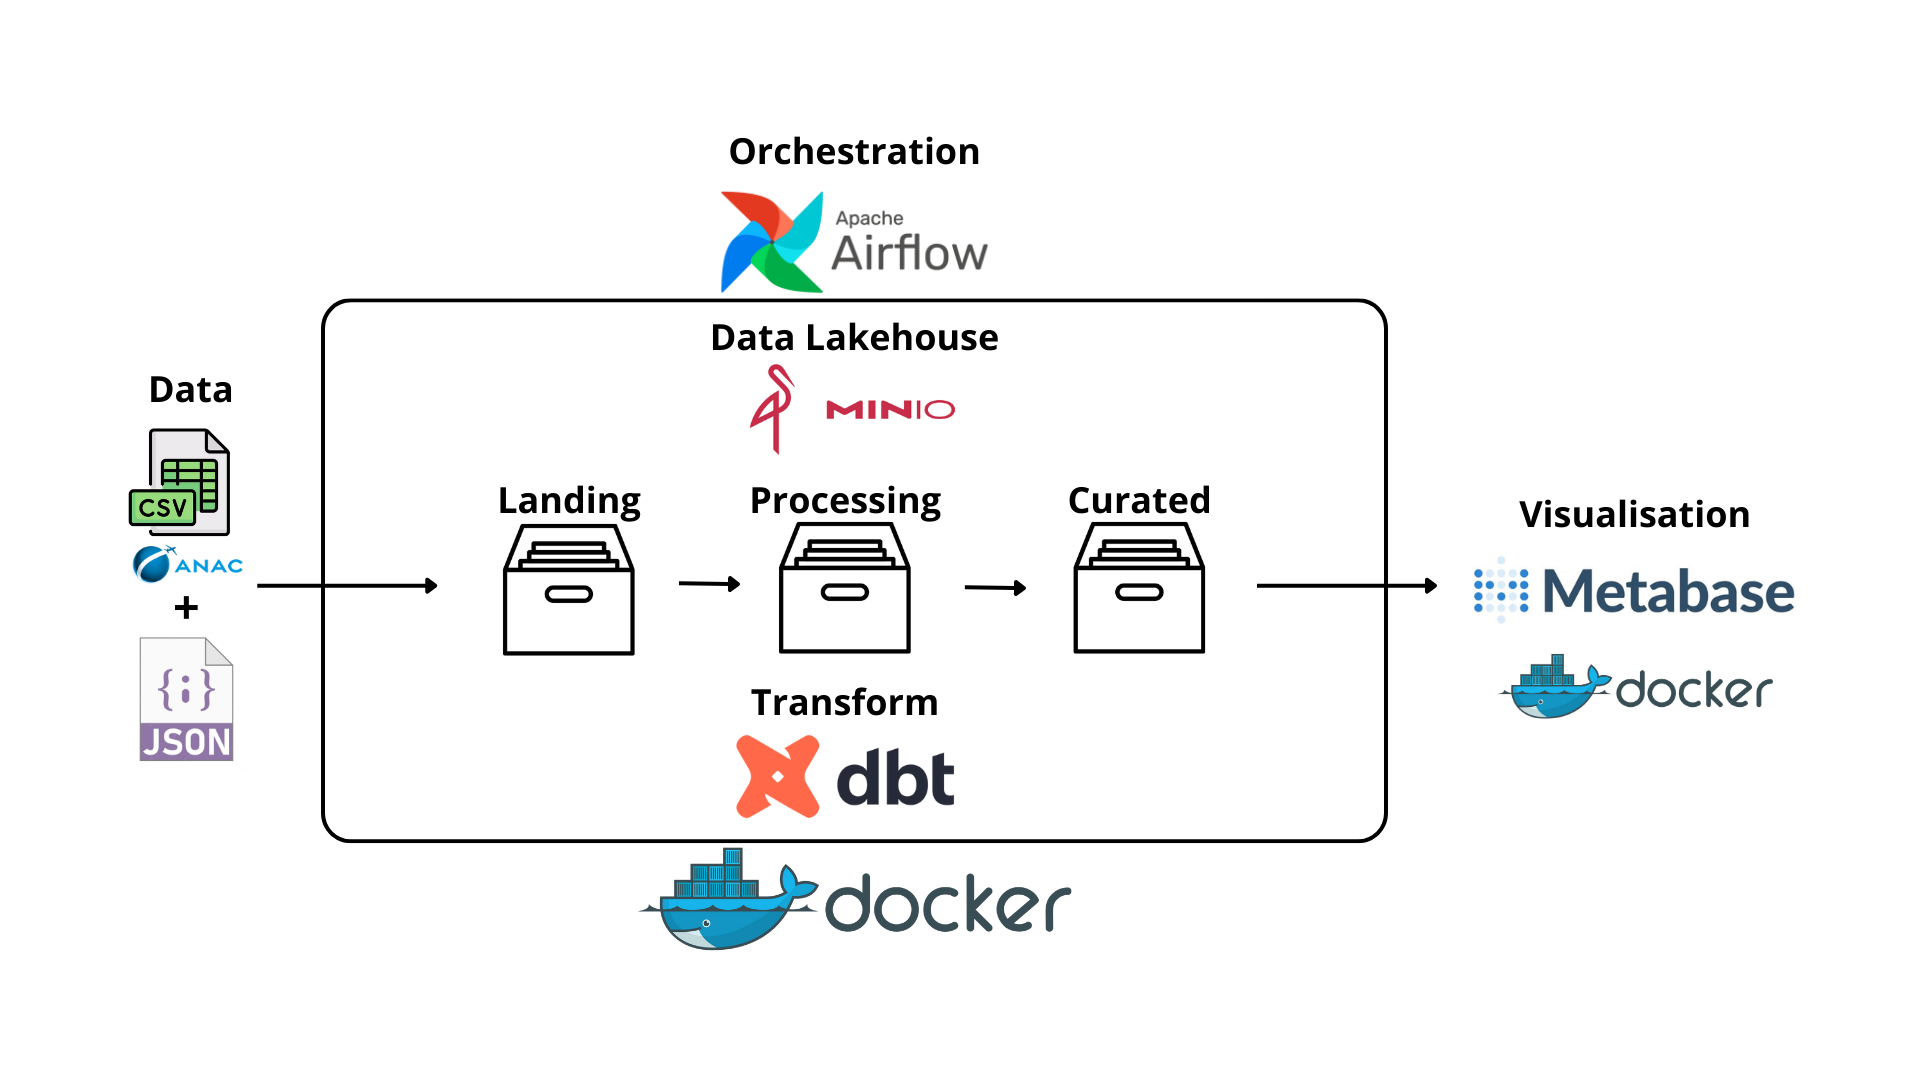
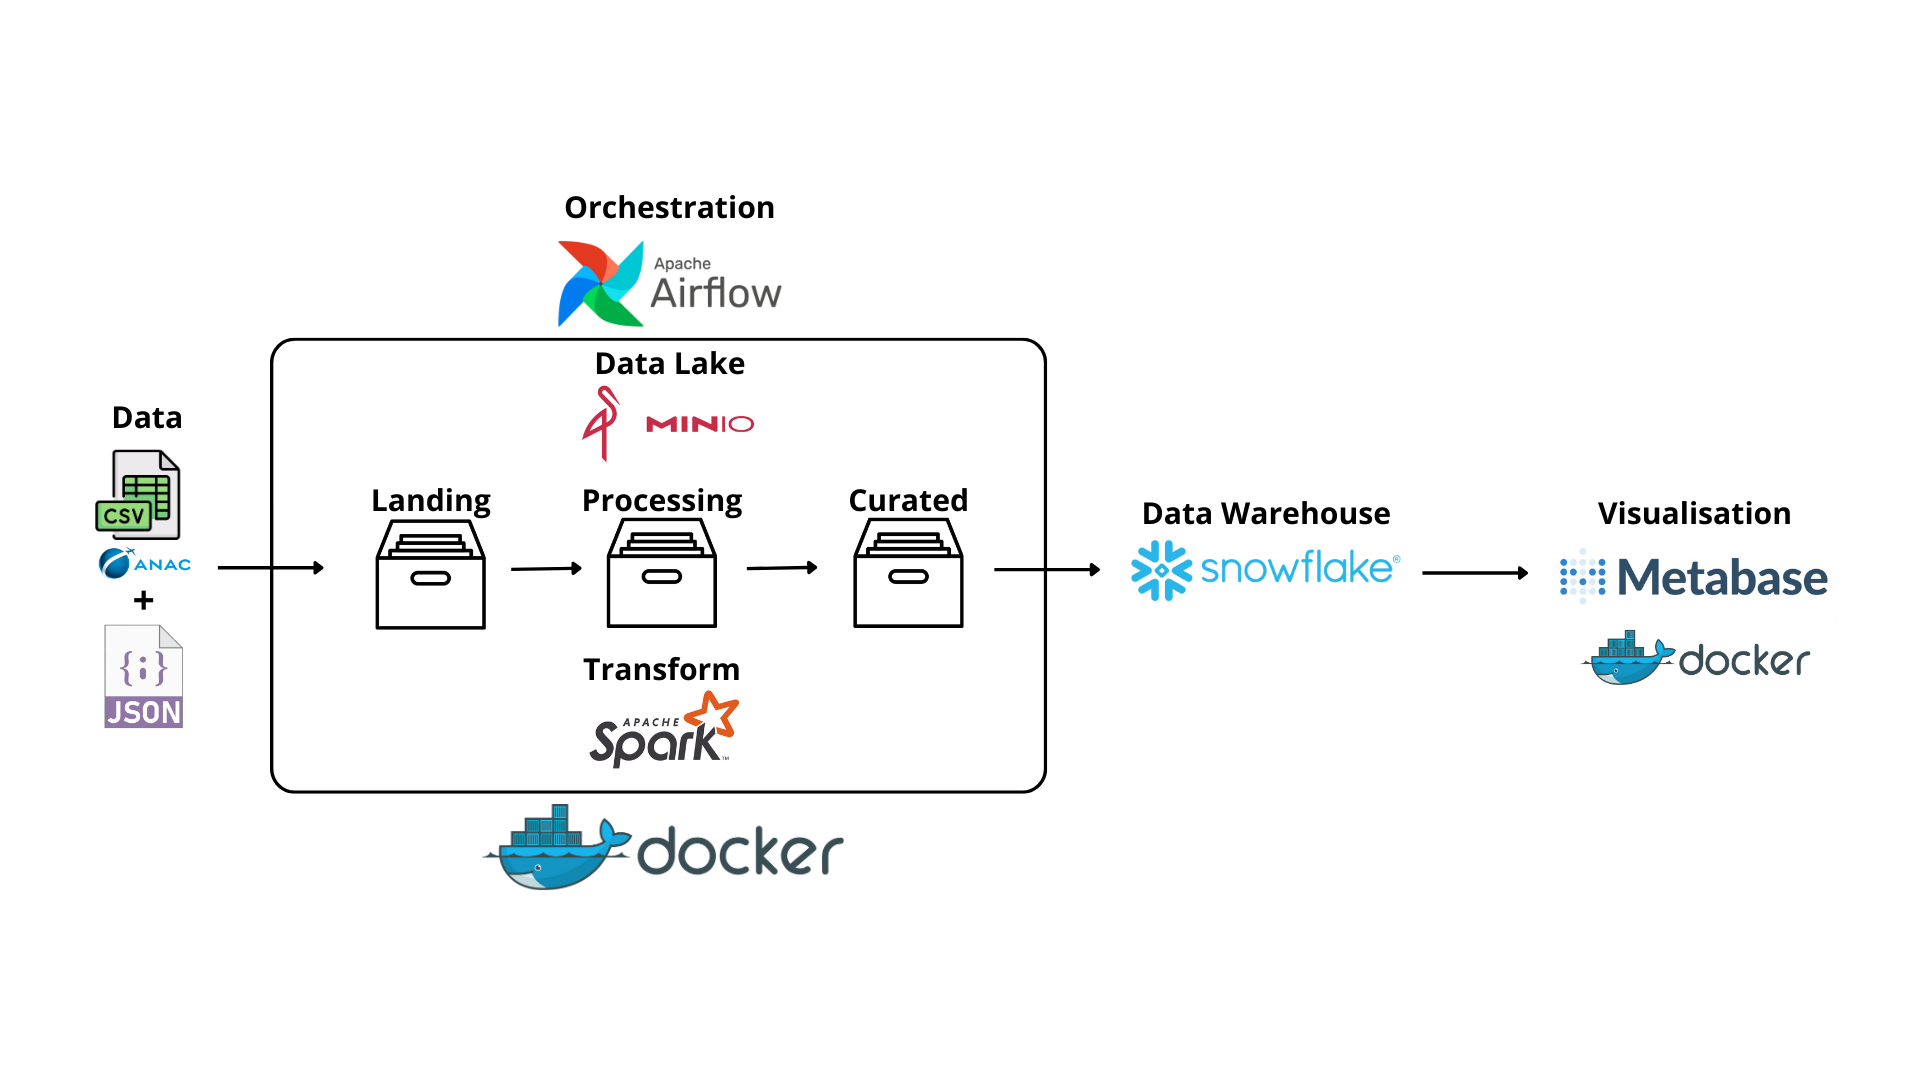
Readme and Img

diff --git a/README.md b/README.md
@@ -1,4 +1,61 @@
-# DataPipeline-TarifasAereas
-Data Pipeline ETL - Análise do preço das passagens aéreas da cidade de Maceió.
+# Data Pipeline ETL com as principais features (Airflow, PySpark, Snowflake)
+## Toda a descrição (passo a passo) deste projeto está disponibilizado neste post: [Medium]()
 
-![Data Pipeline ETL](img/dataPipeline.png)
+---
+
+Neste projeto foi construido um Data Pipeline ETL completo para a avaliação dos preços das passagens áreas de Maceió para outras cidades do Brasil → Inclusive todo o processo pode ser replicado para outras cidades do Brasil e do Mundo!
+
+## :bulb: Data Pipeline
+
+![O Data Pipeline de ponta a ponta](img/dataPipeline.png)
+
+# :memo: Etapas do projeto:
+## :scroll: Extração dos dados
+
+Os dados utilizados foram extraídos diretamente do acervo público disponível pela Agência Nacional de Aviação Civil (ANAC).
+
+![Extração dos dados](img/precoPassagensAereas.png)
+
+## :file_folder: Transformação dos dados (Airflow, Minio e PySpark)
+
+Para a modelagem/transformação dos dados foi desenvolvido dentro de um notebook (ambiente de desenvolvimento) os comandos com o PySpark para a modelagem das tabelas. Realizando o tratamento dos Schemas, junção de tabelas e seleção dos dados utilizados por esse projeto.
+
+![Jupyter Notebook](img/notebookJupyter.png)
+
+O Data Lake é composto pelas seguintes etapas:
+
+![Transformação dos dados](img/passagensAereasProjectTransform.png)
+
+1. Landing: Todos as tabelas foram extraídos com o PySpark;
+2. Processing: Os Schemas e suas propriedades foram ajusatadas e todas as tabelas foram depositadas no formato Parquet;
+3. Curated: Transformação/Modelagem das tabelas para o seu envio ao Snowflake (Data Warehouse).
+
+Após a etapa de desenvolvimento do código PySpark, foi construido dentro de uma DAG do Airflow a orquestração do processo. Da captação das tabelas em diferentes formatos (CSV e JSON), transformação/modelagem até o seu depósito no Snowflake.
+
+Ambiente Airflow com a orquestração do processo ETL:
+
+![Transformação dos dados](img/airflow.png)
+
+## :fast_forward: Snowflake
+
+Após a realização da extração e transformação, 4 tabelas carregadas disponibilizadas no Snowflake.
+
+![Carregamento dos dados](img/passagensAereasProjectLoading.png)
+
+![Etapa Snowflake](img/snowflake.png)
+
+## :rocket: Visualização dos dados pelo Metabase
+
+Com a chegada de todos os dados no Snowflake (Data Warehouse), as tabelas foram conectadas com o Metabase para a criação de um ambiente de visualização.
+
+![Visualização dos dados](img/passagensAereasProjectVisualisation.png)
+
+![Metabse](img/metabase.png)
+
+## :eye: Conclusão
+
+A partir da construção desse Data Pipeline ETL é possível extrair importantes insights sobre os preços e outras variáveis das passagens aéreas pelo Brasil ou porque não pelo Mundo!
+
+Todo processo é orquestrado pelo Airflow permitindo a atualização constante dos dados ao passar dos anos. Além disso o ambiente do Snowflake permite uma rápida conexão para outros estudiosos de dados para a criação de mais insights!
+
+---
